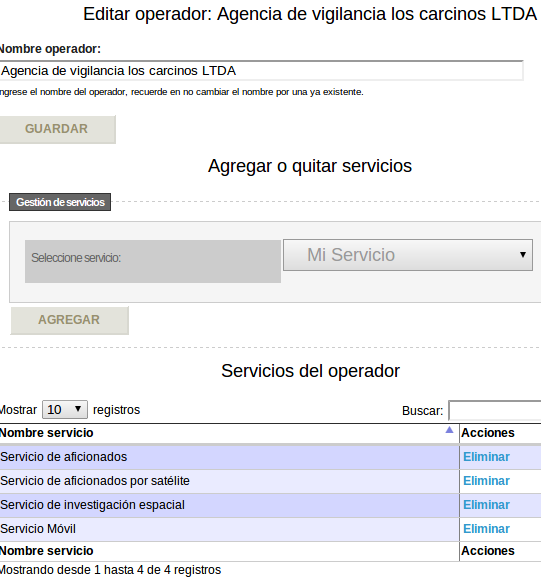
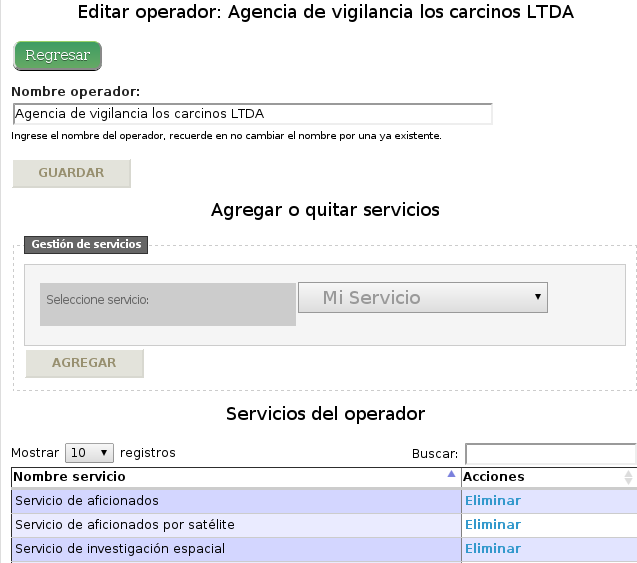
update

diff --git a/php/help/operadores.php b/php/help/operadores.php
@@ -1,0 +1,100 @@
+<!DOCTYPE HTML PUBLIC "-//W3C//DTD HTML 4.01//EN" "http://www.w3.org/TR/html4/strict.dtd">
+
+<?
+$variables = $_POST["feed_item_length"];?>
+
+<html>
+<head>
+	<META HTTP-EQUIV="Content-Type" content="text/html; charset=utf-8"/>
+	<title>Ayuda aplicación CCP</title>	
+	<link type="text/css" rel="stylesheet" href="/site/gestionEspectro/php/drupaljs/jquery-ui/css/smoothness/jquery-ui-1.9.0.custom.css" />	
+	<link type="text/css" rel="stylesheet" href="/site/css/estilos.css" />
+	
+	<style type="text/css">table.tableStyle-table {border: 1px solid #CCC; font-family: Verdana, Verdana, Geneva, sans-serif; font-size: 12px;} .tableStyle-table td {padding: 4px; margin: 3px; border: 1px solid #ccc;} .tableStyle-table th {background-color: #70A7DC; color: #FFF; font-weight: bold; font-size: 16px} </style>
+
+	
+	<script type="text/javascript" src="/site/gestionEspectro/php/drupaljs/jquery/jquery-1.8.2.min.js"></script>
+	<script type="text/javascript" src="/site/gestionEspectro/php/drupaljs/jquery-ui/js/jquery-ui-1.9.0.custom.js"></script>
+	<script type="text/javascript" src="/site/gestionEspectro/php/help/aplicacion/funciones.js"></script>
+	
+</head>
+<body>	
+ <p class='estiloTitulo'>Ayuda consultas a Base de datos</p>
+	<div id="tabs">
+		<ul>
+			<li><a href="#tabs-1">Acciones sobre operador</a></li>
+			<li><a href="#tabs-2">Lista de Operadores</a></li>
+		</ul>
+		<div id="tabs-1">
+			<img src="/site/gestionEspectro/php/help/operadores/Operador.png" />
+
+			<table class="tableStyle-table" width="80%">
+				<thead>
+				<tr>
+					<th>
+						Función
+					</th>
+					<th>
+						Descripción
+					</th>
+				</tr>
+				</thead>
+					<tbody>
+					<tr>
+						<td>Registrar operador</td>
+						<td>
+							<ul style="text-align:'right';">
+								<li>Nombre operador: En este campo usted puede designar el nombre del nuevo operador.</li>
+								<li>Agregar o quitar servicios: Cada operador debe tener asociado uno o más servicios, para esto usted puede buscar un servicio de la lista y hacer clic en agregar.</li>
+								<li>Guardar: crea un nuevo operador con el nombre y servicios especificados.</li>
+							</ul>
+						</td>
+					</tr>
+					<tr>
+						<td>Editar operador</td>
+						<td>En la lista de los operadores registrados usted puede proceder a editar alguno haciendo clic en el botón editar</td>
+					</tr>	
+					</tbody>
+			</table>
+
+		</div>
+		
+		<div id="tabs-2">
+			<img src="/site/gestionEspectro/php/help/operadores/OperadorEditar.png" />
+			
+			<table class="tableStyle-table" width="80%">
+				<thead>
+				<tr>
+					<th>
+						Función
+					</th>
+					<th>
+						Descripción
+					</th>
+				</tr>
+				</thead>
+					<tbody>
+					<tr>
+						<td>Nombre operador</td>
+						<td>Usted puede cambiar el nombre del operador, para que la operación se complete debe dar en guardar</td>
+					</tr>
+					<tr>
+						<td>Agregar servicio</td>
+						<td>Puede agregar un servicio seleccionandolo de la lista y haciendo clic en agregar.</td>
+					</tr>
+					<tr>
+						<td>Quitar servicio</td>
+						<td>Dentro de la lista de los servicios que presta el operador se puede eliminar haciendo clic en el botón "Eliminar" correspondiete al servicio registrado</td>
+					</tr>
+					<tr>
+						<td>Regresar</td>
+						<td>Permite regresar a la pantalla principal de gestión de operadores.</td>
+					</tr>
+					</tbody>
+			</table>
+		</div>
+</div>	
+	<span style="font-size: 12px;">Universidad del Valle. Grupo de investigación AVISPA. 2012</span>
+
+</body>
+</html>

diff --git a/php/drupalphp/node41.php b/php/drupalphp/node41.php
@@ -46,9 +46,7 @@ if($administrador==1 && $permiso==1)
 	drupal_add_css($path = 'js/syntaxhighlighter/styles/shThemeDefault.css', $type = 'module', $media = 'all', $preprocess = TRUE);
 	drupal_add_js(drupal_get_path('module', 'mymodule') . 'js/colorBoxU.js');
 	echo "<p class='estiloTitulo'>Administración de operadores</p>\n";
-	echo '<p style="text-align:left";><a class="iframe" href="http://avispa.univalle.edu.co/~cardel/proyInv/ayudaSecuenciamientoAviones/ayuda.php"><img border="0" src="files/HelpIcon.gif" width="50" height="50"><br/>Ayuda</a></p>';
-
-	
+	echo '<p style="text-align:left";><a class="iframe" href="http://avispa.univalle.edu.co/site/gestionEspectro/php/help/operadores.php"><img border="0" src="files/HelpIcon.gif" width="50" height="50"><br/>Ayuda</a></p>';
 	
 ?>
 <p class='estilo'>Registrar Operador</p>

diff --git a/php/drupalphp/node49.php b/php/drupalphp/node49.php
@@ -54,6 +54,8 @@ if($administrador==1 && $permiso==1)
 	if($id==null) $id=1;
 	
 	echo "<p class='estilo'>Editar operador: ".obtenerNombre($id)."</p>\n";
+	
+		echo "<input type=button class=\"botonverde\" onClick=\"window.open('http://avispa.univalle.edu.co/site/?q=node/41' ,'_top' );\" value=\"Regresar\" />\n";
 ?>
 
 
